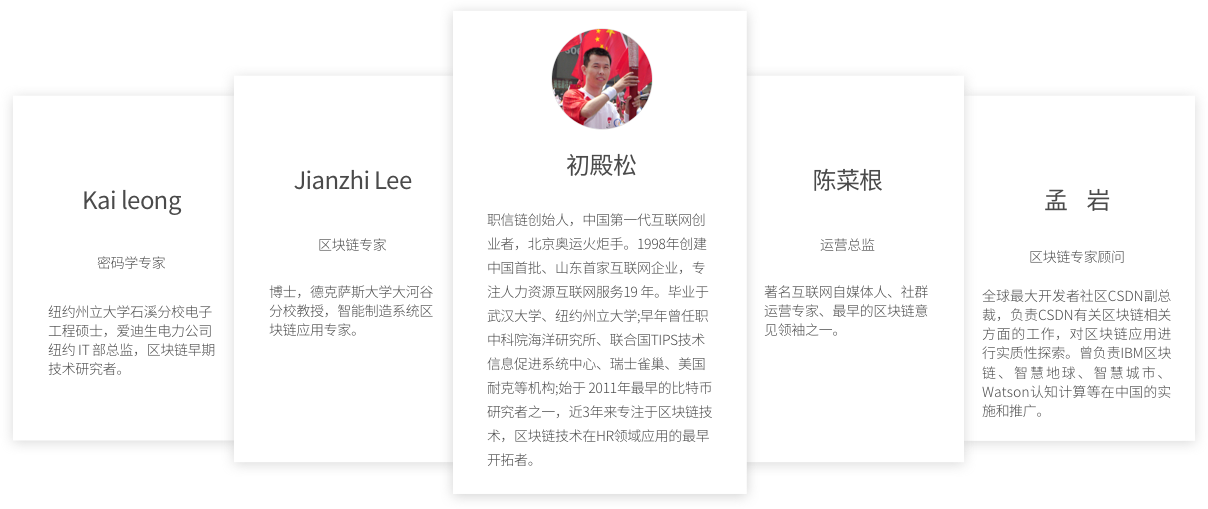
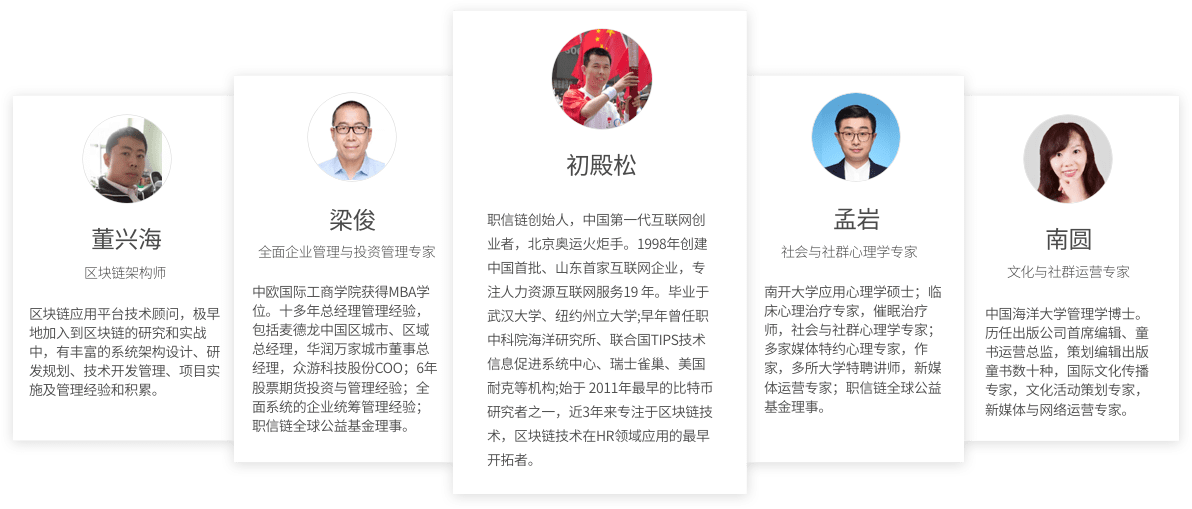
首页核心团队及核心顾问团队

diff --git a/index.html b/index.html
@@ -64,7 +64,7 @@
             bottom: 0;
             right: 0;
             left: 0;
-            z-index: 8;
+            z-index: 10;
         }
         .notice-bg{
             width:633px;
@@ -278,7 +278,7 @@
                 <a name="block-content1" style="display: inline-block;width: 100%;clear: both;height: 1px;"></a>
                 <!--网页头部轮播替换--开始-->
 
-                <div class="block-content1" id="content1" style="margin-top: 70px; position: relative">
+                <div class="block-content1" id="content1" style="margin-top: 70px; position: relative;">
 
                     <!--搜索部分-->
                     <div class="searchspace banner-2">
@@ -301,15 +301,16 @@
                                 </div>
                             </li>
 
-                            <li class="backImg-1" >
-                                <div class="section" id="index" style="background:url(public/images/index/s3-banner.jpg) center top no-repeat;">
-                                    <div class="banner-1">
-                                        <span>让好人先富起来</span>
-                                    </div>
-                                </div>
-                            </li>
+                            <!--<li class="backImg-1" >-->
+                                <!--<div class="section" id="index" style="background:url(public/images/index/s3-banner.jpg) center top no-repeat;">-->
+                                    <!--<div class="banner-1">-->
+                                        <!--<span>让好人先富起来</span>-->
+                                    <!--</div>-->
+                                <!--</div>-->
+                            <!--</li>-->
                         </ul>
                     </div>
+                </div>
                     <!--轮播图片--end-->
 
             <!--<div class="block-content1" id="content1">-->
@@ -318,7 +319,7 @@
                      <!--style="background:url(public/images/index/s1-banner.jpg) center top no-repeat;">-->
 
                     <!--<div class="banner-1">-->
-                        <!--<span>职信链</span>-->
+                        <!--<span>全球区块链落地应用典范</span>-->
                     <!--</div>-->
 
                     <!--<div class="banner-2">-->
@@ -328,8 +329,7 @@
                         <!--</div>-->
                     <!--</div>-->
                 <!--</div>-->
-
-            </div>
+            <!--</div>-->
 
 
 
@@ -541,7 +541,7 @@
                 </div>
                 <div class="subTitle">
                     <h3 style="font-size: 24px;">
-                        团队核心成员
+                        核心团队
                     </h3>
                 </div>
                 <div class="subTitle">
@@ -550,7 +550,15 @@
                     业务系统再到面向用户的前端表达，团队内人才类型丰富且都具有丰富的开发实践经验。
                 </div>
                 <div class="part-9">
-                    <img src="public/images/block7-img-1.png" width="" alt="" style="margin-top: 90px;">
+                    <img src="public/images/block7-img-1.png" style="margin-top: 90px;">
+                </div>
+                <div class="subTitle">
+                    <h3 style="font-size: 24px;">
+                        核心顾问团队
+                    </h3>
+                </div>
+                <div class="part-9">
+                    <img src="public/images/block7-img-3.png" style="margin-top: 90px;">
                 </div>
 
             </div>
